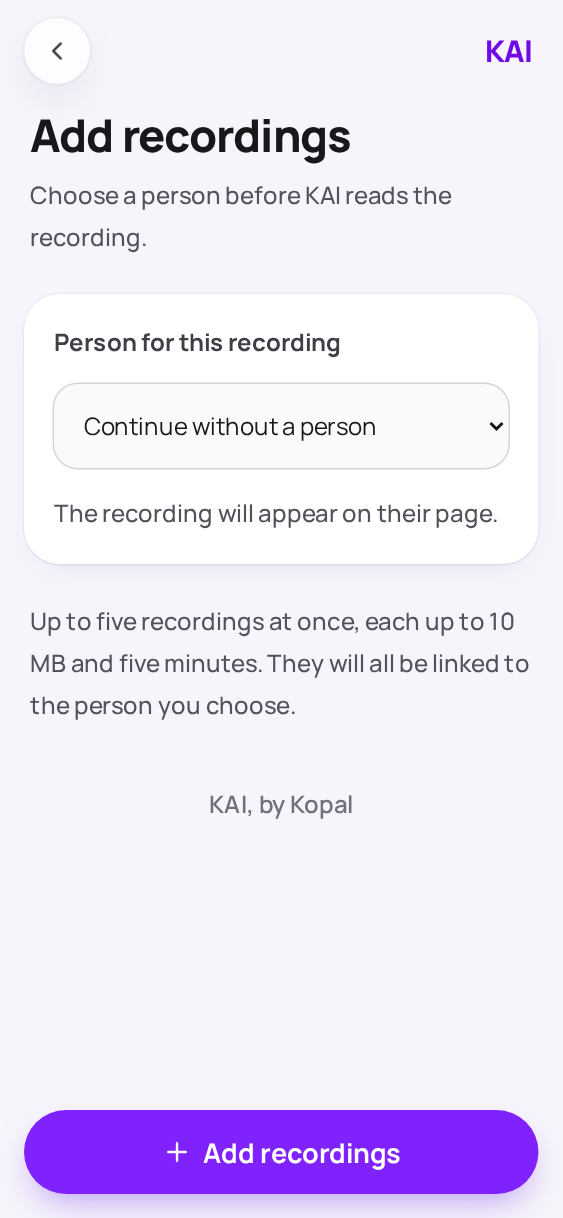
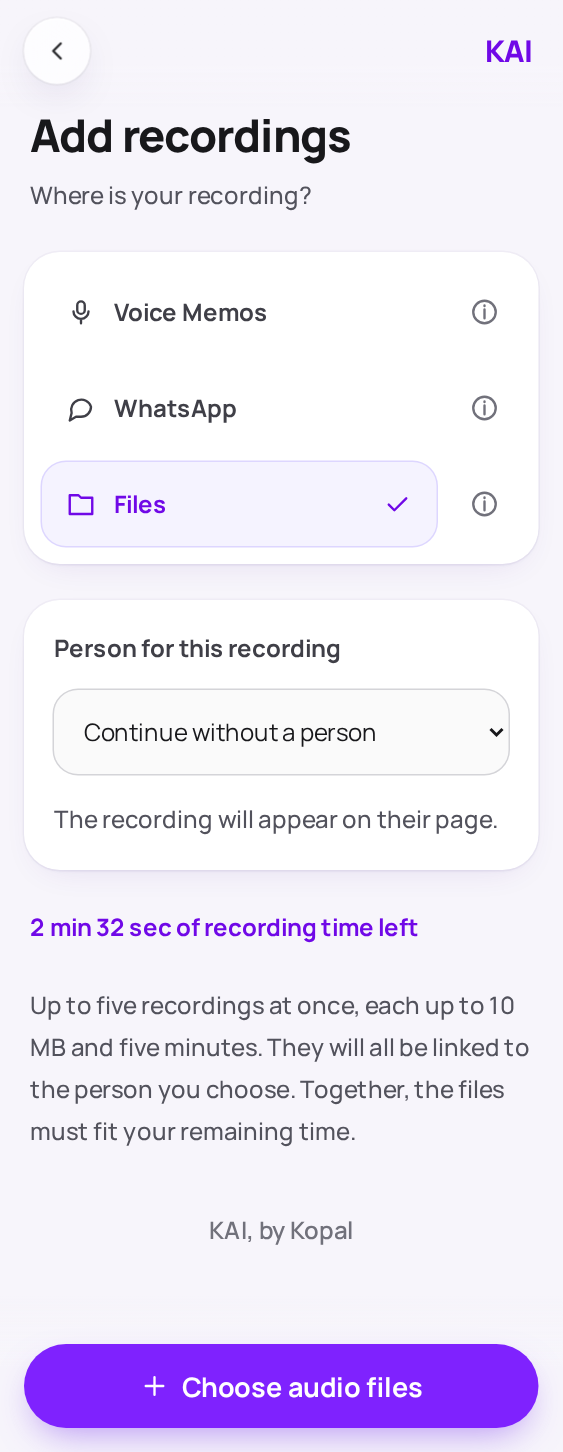
Guide uploads from Voice Memos, WhatsApp and Files (#25)
* Offer a private one-hour recording trial through the waitlist

* Clarify private trial access in the README

* Pause public trial claims pending email verification

* Verify trial email ownership and enforce IP and 100-user caps

* Inspect protected proxy fingerprints without exposing IP addresses

* Use the Sprite client IP header for trial limits

* Make phone shortcut setup three clear steps

* Bound transcription to reserved seconds and verify trial email privacy

* Email verified owners when recordings are ready to review

* Create temporary fixture directory for fresh Sprite checks

* Keep content-free failure diagnostics for readings

* Style recording-ready emails and include their titles

* Add Library and notifications with contextual connection setup

* Guide audio uploads from Voice Memos, WhatsApp and Files

* Replace rejected Voice Memos launch with sharing guidance

diff --git a/src/look/screens/Upload.tsx b/src/look/screens/Upload.tsx
@@ -1,8 +1,22 @@
 import { useState } from 'react'
 import type { LinkedPerson, PersonChoice } from '../types'
-import { Button, Card, Field, Notice, PushedPage, RecordingPicker, WhatIsKai } from '../ui'
+import { Button, Card, Field, FOCUS, Notice, PushedPage, RecordingPicker, WhatIsKai } from '../ui'
+import {Icon,type IconName} from '../icons'
+export type UploadSource='voice-memos'|'whatsapp'|'files'
+const sources:{id:UploadSource;label:string;icon:IconName}[]=[{id:'voice-memos',label:'Voice Memos',icon:'mic'},{id:'whatsapp',label:'WhatsApp',icon:'chat'},{id:'files',label:'Files',icon:'folder'}]
+const guides:Record<UploadSource,string[]>={
+ 'voice-memos':['Open Voice Memos from your Home Screen and choose a recording.','Tap More (…), then Share. If Options appears, choose Rendered audio.','Choose Send to KAI. Your browser opens so you can choose a person before KAI reads.'],
+ whatsapp:['Hold the voice note in WhatsApp, then tap Forward.','Tap Share, then Send to KAI.','Your browser opens so you can choose who sent it before KAI reads.'],
+ files:['Save a recording to Files from the app’s Share menu.','Choose the person below, then choose up to five audio files.','KAI checks their length against your remaining time before starting.']
+}
+const timeLeft=(seconds:number)=>`${Math.floor(seconds/60)} min ${seconds%60} sec`
 
-export function Upload({ people, incoming, readOnly, presetPerson, busy, error, loadError, onFiles, onStart, onRetry }: {
+export function Upload({ people, incoming, readOnly, presetPerson, busy, error, loadError, onFiles, onStart, onRetry, shortcutReady=false, remainingSeconds, xPostUrl, initialSource='files', initialGuide }: {
+  shortcutReady?: boolean
+  remainingSeconds?: number | null
+  xPostUrl?: string | null
+  initialSource?: UploadSource
+  initialGuide?: UploadSource
   people: LinkedPerson[] | null
   incoming?: { id: string; title: string } | null
   readOnly: boolean
@@ -14,17 +28,24 @@ export function Upload({ people, incoming, readOnly, presetPerson, busy, error, 
   onStart: (person: PersonChoice) => void
   onRetry: () => void
 }) {
+  const [source,setSource]=useState<UploadSource>(initialSource),[guide,setGuide]=useState<UploadSource|null>(initialGuide ?? null)
+  const shownGuide=source==='voice-memos' && shortcutReady ? 'voice-memos':guide
+  const exhausted=remainingSeconds===0 && !incoming
   const [selected,setSelected]=useState(presetPerson ?? '')
   const [id]=useState(()=>crypto.randomUUID())
   const [name,setName]=useState(''),[company,setCompany]=useState(''),[role,setRole]=useState('')
   const person:PersonChoice=selected==='new' ? {new_person:{id,name:name.trim(),company:company.trim(),role:role.trim()}} : {person_id:selected || null}
   const valid=selected!=='new' || Boolean(name.trim())
-  const dock=readOnly ? <WhatIsKai/> : loadError ? <Button variant="primary" wide onClick={onRetry}>Try again</Button> : !people ? <Button variant="primary" wide disabled>Opening…</Button> : incoming ? <Button variant="primary" wide disabled={busy || !valid} onClick={()=>onStart(person)}>{busy ? 'Starting…' : 'Let KAI read'}</Button> : <RecordingPicker busy={busy} disabled={!valid} onFiles={files=>onFiles(files,person)}/>
+  const dock=readOnly ? <WhatIsKai/> : loadError ? <Button variant="primary" wide onClick={onRetry}>Try again</Button> : !people ? <Button variant="primary" wide disabled>Opening…</Button> : exhausted ? <Button variant="primary" wide href={xPostUrl || '/home'}>{xPostUrl ? 'Show KAI some love':'Back to Home'}</Button> : incoming ? <Button variant="primary" wide disabled={busy || !valid} onClick={()=>onStart(person)}>{busy ? 'Starting…' : 'Let KAI read'}</Button> : source!=='files' && !shortcutReady ? <Button variant="primary" wide href={'/connect?next='+source}>Set up shortcut</Button> : source==='whatsapp' ? <Button variant="primary" wide href="whatsapp://app">Open WhatsApp</Button> : source==='voice-memos' ? <Button variant="primary" wide onClick={()=>{setSource('files');setGuide(null)}}>Choose saved audio</Button> : <RecordingPicker label="Choose audio files" busy={busy} disabled={!valid} onFiles={files=>onFiles(files,person)}/>
   return <PushedPage back="/home" backLabel="Back to Home" readOnly={readOnly} dock={dock}>
-    <header className="px-1"><h1 className="text-[30px]/9 font-extrabold tracking-tight">Add recordings</h1><p className="mt-2 text-base/7 font-medium text-zinc-600">Choose a person before KAI reads the recording.</p></header>
-    {readOnly ? <Card className="p-5 text-base/7 font-medium text-zinc-600">Open your own copy to add recordings.</Card> : loadError ? <Notice tone="error">{loadError}</Notice> : !people ? <Notice>Opening your upload…</Notice> : <>
+    <header className="px-1"><h1 className="text-[30px]/9 font-extrabold tracking-tight">Add recordings</h1><p className="mt-2 text-base/7 font-medium text-zinc-600">{incoming ? 'Choose a person before KAI reads the recording.':'Where is your recording?'}</p></header>
+    {readOnly ? <Card className="p-5 text-base/7 font-medium text-zinc-600">Open your own copy to add recordings.</Card> : loadError ? <Notice tone="error">{loadError}</Notice> : !people ? <Notice>Opening your upload…</Notice> : exhausted ? <Card className="space-y-3 p-5"><h2 className="text-xl font-extrabold">Your hour is complete</h2><p className="text-base/7 text-zinc-600">You’ve used your recording time. Your people, tasks and past recordings are still here.</p></Card> : <>
+      {!incoming && <Card className="p-3"><div role="group" aria-label="Recording source" className="space-y-2">{sources.map(item=><div key={item.id} className="flex items-center gap-2"><button type="button" aria-pressed={source===item.id} disabled={busy} onClick={()=>{setSource(item.id);setGuide(null)}} className={`${FOCUS} flex min-h-14 min-w-0 flex-1 items-center gap-3 rounded-2xl px-4 text-left text-base font-bold ${source===item.id ? 'bg-violet-50 text-violet-700 ring-1 ring-violet-200':'text-zinc-700 hover:bg-zinc-50'}`}><Icon name={item.icon}/><span className="flex-1">{item.label}</span>{source===item.id && <Icon name="check"/>}</button><button type="button" aria-label={'How to add from '+item.label} aria-expanded={shownGuide===item.id} aria-controls="source-guide" onClick={()=>{setSource(item.id);setGuide(guide===item.id ? null:item.id)}} className={`${FOCUS} flex size-12 shrink-0 items-center justify-center rounded-full text-zinc-500 hover:bg-zinc-100`}><Icon name="info"/></button></div>)}</div></Card>}
+      {shownGuide && !incoming && <Card id="source-guide" className="p-5"><h2 className="text-lg font-extrabold">From {sources.find(s=>s.id===shownGuide)!.label}</h2><ol className="mt-3 list-decimal space-y-3 pl-5 text-base/7 text-zinc-600">{shownGuide!=='files' && !shortcutReady && <li>Set up Send to KAI using the button below.</li>}{guides[shownGuide].map(step=><li key={step}>{step}</li>)}</ol></Card>}
+      {!incoming && source==='voice-memos' && shortcutReady && <Notice>Prefer Files? In Voice Memos, tap Share, then Save to Files. Come back here and choose your saved audio.</Notice>}
+      {!incoming && source!=='files' && !(source==='voice-memos' && shortcutReady) && <Notice>{shortcutReady ? 'Open the app, share your recording to Send to KAI, then choose a person here. If the app does not open, open it from your Home Screen.' : 'First, add Send to KAI to your iPhone’s shortcuts. Then share a recording from the app.'}</Notice>}
       {incoming && <Card className="p-5"><p className="text-base font-bold text-violet-700">Shared from your phone</p><h2 className="mt-1 text-lg font-extrabold">{incoming.title}</h2><p className="mt-2 text-base/7 font-medium text-zinc-600">Your recording is attached and waiting for you.</p></Card>}
-      <Card className="space-y-4 p-5">
+      {(incoming || source==='files') && <Card className="space-y-4 p-5">
         <label htmlFor="upload-person" className="block text-base font-bold text-zinc-700">Person for this recording</label>
         <select id="upload-person" disabled={busy} value={selected} onChange={e=>setSelected(e.target.value)} className="min-h-14 w-full rounded-2xl bg-zinc-50 px-4 py-3 text-base text-zinc-900 ring-1 ring-zinc-300 focus:ring-2 focus:ring-violet-500">
           <option value="">Continue without a person</option>
@@ -37,8 +58,9 @@ export function Upload({ people, incoming, readOnly, presetPerson, busy, error, 
           <Field label="Role (optional)" id="person-role" maxLength={120} disabled={busy} value={role} onChange={e=>setRole(e.target.value)}/>
         </>}
         <p className="text-base/7 font-medium text-zinc-600">The recording will appear on their page.</p>
-      </Card>
-      {!incoming && <p className="px-1 text-base/7 font-medium text-zinc-600">Up to five recordings at once, each up to 10 MB and five minutes. They will all be linked to the person you choose.</p>}
+      </Card>}
+      {!incoming && remainingSeconds!=null && <p className="px-1 text-base/7 font-bold text-violet-700">{timeLeft(remainingSeconds)} of recording time left</p>}
+      {!incoming && <p className="px-1 text-base/7 font-medium text-zinc-600">Up to five recordings at once, each up to 10 MB and five minutes. {source==='files' ? 'They will all be linked to the person you choose.':'Choose a person after sharing.'} {remainingSeconds!=null && 'Together, the files must fit your remaining time.'}</p>}
       {error && <Notice tone="error">{error}</Notice>}
     </>}
   </PushedPage>

diff --git a/tests/phone/upload-sources.spec.ts b/tests/phone/upload-sources.spec.ts
@@ -1,0 +1,48 @@
+import {test,expect} from './fixture';
+import {assertPhone} from './usability';
+import {testTone} from '../../src/server/gateway';
+
+test('three audio sources show guidance and return from shortcut setup to the chosen app',async({page,kai})=>{
+ await page.goto('/');await page.evaluate(s=>{history.replaceState(null,'','/#judge='+s);location.reload()},kai.secret);
+ await page.getByRole('link',{name:'Try it yourself',exact:true}).click();await page.goto('/upload/new');
+ for(const name of ['Voice Memos','WhatsApp','Files']){
+  await expect(page.getByRole('button',{name,exact:true})).toBeVisible();
+  await page.getByRole('button',{name:'How to add from '+name}).click();
+  await expect(page.getByRole('heading',{name:'From '+name,exact:true})).toBeVisible();await assertPhone(page);
+ }
+ await page.getByRole('button',{name:'WhatsApp',exact:true}).click();
+ await page.route('**/api/connect',async route=>{const r=await route.fetch();const data=await r.json();await route.fulfill({json:{...data,uploadPath:'/in/layout-example',mcpPath:'/mcp/layout-example'}})});
+ await page.getByRole('link',{name:'Set up shortcut',exact:true}).click();await expect(page).toHaveURL(/connect\?next=whatsapp$/);
+ await page.getByRole('button',{name:'I’ve added the shortcut',exact:true}).click();
+ await expect(page).toHaveURL(/upload\/new\?source=whatsapp$/);
+ await expect(page.getByRole('link',{name:'Open WhatsApp',exact:true})).toHaveAttribute('href','whatsapp://app');await assertPhone(page);
+ await page.getByRole('button',{name:'Voice Memos',exact:true}).click();
+ await expect(page.getByText('Open Voice Memos from your Home Screen and choose a recording.',{exact:true})).toBeVisible();
+ await expect(page.locator('a[href^="voicememos:"]')).toHaveCount(0);await assertPhone(page);
+ await page.getByRole('button',{name:'Choose saved audio',exact:true}).click();
+ await expect(page.getByLabel('Person for this recording')).toBeVisible();
+ await page.getByRole('button',{name:'Files',exact:true}).click();
+ const picker=page.getByLabel('Add recordings: choose up to five audio files');await expect(picker).toHaveAttribute('accept','.m4a,.opus,.ogg,.mp3,.wav');
+ await picker.setInputFiles({name:'invented.txt',mimeType:'text/plain',buffer:Buffer.from('Invented words.')});
+ await expect(page.getByText('Choose an audio file: M4A, OPUS, OGG, MP3 or WAV.',{exact:true})).toBeVisible();await expect(page).toHaveURL(/upload\/new/);
+ await assertPhone(page);
+});
+
+test('remaining time refuses an oversized duration, hides a missing post, and lets reserved shared audio finish',async({page,kai})=>{
+ await page.goto('/');await page.evaluate(s=>{history.replaceState(null,'','/#judge='+s);location.reload()},kai.secret);
+ await page.getByRole('link',{name:'Try it yourself',exact:true}).click();
+ const cookie=(await page.context().cookies()).find(c=>c.name==='kai_session')!;const id=cookie.value.split('.')[0];
+ kai.db.prepare('UPDATE workspaces SET trial_verified=1,trial_seconds=1 WHERE id=?').run(id);
+ await page.goto('/upload/new');await expect(page.getByText('0 min 1 sec of recording time left',{exact:true})).toBeVisible();
+ await page.getByLabel('Add recordings: choose up to five audio files').setInputFiles({name:'invented.wav',mimeType:'audio/wav',buffer:testTone()});
+ await expect(page.getByText(/remaining recording time/)).toBeVisible();
+ expect((kai.db.prepare('SELECT trial_seconds FROM workspaces WHERE id=?').get(id) as {trial_seconds:number}).trial_seconds).toBe(1);
+ kai.db.prepare('UPDATE workspaces SET trial_seconds=2 WHERE id=?').run(id);
+ const connection=await (await page.request.get('/api/connect')).json();
+ const r=await page.request.post(connection.uploadPath,{multipart:{recordings:{name:'invented.wav',mimeType:'audio/wav',buffer:testTone()},date:new Date().toISOString()}});expect(r.status()).toBe(202);const {ids}=await r.json();
+ // The last two seconds are already reserved. The attached recording must still be startable.
+ await page.goto('/upload/'+ids[0]);await expect(page.getByRole('button',{name:'Let KAI read',exact:true})).toBeEnabled();await assertPhone(page);
+ await page.getByRole('button',{name:'Let KAI read',exact:true}).click();await expect(page.getByRole('button',{name:/^Accept all/})).toBeEnabled();
+ await page.goto('/upload/new');await expect(page.getByRole('heading',{name:'Your hour is complete'})).toBeVisible();await expect(page.getByRole('link',{name:'Show KAI some love'})).toHaveCount(0);await assertPhone(page);
+ await page.goto('/home');await expect(page.getByRole('link',{name:'Show KAI some love'})).toHaveCount(0);
+});

diff --git a/design/gallery.tsx b/design/gallery.tsx
@@ -114,7 +114,16 @@ const STATES: Record<string, { title: string; screen: () => ReactNode }> = {
   'home/trial-used': {title:'Home · trial used',screen:()=> <Home {...homeProps} readOnly={false} home={{...data.home,trialSeconds:0,trialVerified:true}}/>},
   'opening/page': { title: 'Page · opening', screen: () => <Opening page="People" onRetry={nothing}/> },
   'opening/failed': { title: 'Page · could not open', screen: () => <Opening page="People" failed onRetry={nothing}/> },
-  upload: { title: 'Upload · choose a person', screen: () => <Upload people={data.people} readOnly={false} onFiles={nothing} onStart={nothing} onRetry={nothing}/> },
+  upload: { title: 'Upload · choose a source', screen: () => <Upload people={data.people} readOnly={false} remainingSeconds={152} onFiles={nothing} onStart={nothing} onRetry={nothing}/> },
+  "upload/voice-memos": {title:"Upload · voice-memos",screen:()=> <Upload people={data.people} readOnly={false} initialSource="voice-memos" onFiles={nothing} onStart={nothing} onRetry={nothing}/>},
+  "upload/whatsapp": {title:"Upload · whatsapp",screen:()=> <Upload people={data.people} readOnly={false} initialSource="whatsapp" onFiles={nothing} onStart={nothing} onRetry={nothing}/>},
+  "upload/voice-memos-ready": {title:"Upload · voice-memos-ready",screen:()=> <Upload people={data.people} readOnly={false} initialSource="voice-memos" shortcutReady onFiles={nothing} onStart={nothing} onRetry={nothing}/>},
+  "upload/whatsapp-ready": {title:"Upload · whatsapp-ready",screen:()=> <Upload people={data.people} readOnly={false} initialSource="whatsapp" shortcutReady onFiles={nothing} onStart={nothing} onRetry={nothing}/>},
+  "upload/voice-memos-guide": {title:"Upload · voice-memos-guide",screen:()=> <Upload people={data.people} readOnly={false} initialSource="voice-memos" initialGuide="voice-memos" onFiles={nothing} onStart={nothing} onRetry={nothing}/>},
+  "upload/whatsapp-guide": {title:"Upload · whatsapp-guide",screen:()=> <Upload people={data.people} readOnly={false} initialSource="whatsapp" initialGuide="whatsapp" shortcutReady onFiles={nothing} onStart={nothing} onRetry={nothing}/>},
+  "upload/files-guide": {title:"Upload · files-guide",screen:()=> <Upload people={data.people} readOnly={false} initialGuide="files" onFiles={nothing} onStart={nothing} onRetry={nothing}/>},
+  "upload/quota-used": {title:"Upload · quota-used",screen:()=> <Upload people={data.people} readOnly={false} remainingSeconds={0} onFiles={nothing} onStart={nothing} onRetry={nothing}/>},
+  "upload/shared-quota-used": {title:"Upload · shared-quota-used",screen:()=> <Upload people={data.people} readOnly={false} remainingSeconds={0} incoming={{id:"invented",title:"New recording"}} onFiles={nothing} onStart={nothing} onRetry={nothing}/>},
   'upload/new-person': { title: 'Upload · add a person', screen: () => <Upload people={data.people} readOnly={false} presetPerson="new" onFiles={nothing} onStart={nothing} onRetry={nothing}/> },
   'upload/shared': { title: 'Upload · a WhatsApp voice note', screen: () => <Upload people={data.people} readOnly={false} incoming={{id:'shared',title:'New recording'}} onFiles={nothing} onStart={nothing} onRetry={nothing}/> },
   'upload/loading': { title: 'Upload · opening', screen: () => <Upload people={null} readOnly={false} onFiles={nothing} onStart={nothing} onRetry={nothing}/> },

diff --git a/src/server/app.ts b/src/server/app.ts
@@ -13,7 +13,7 @@ import { cookieName, createJudge, equalSecret, workspaceFor } from './access';
 import { listTodos,finishTodo } from './todos';
 import { mountSharing } from './sharing';
 import { mountMcp } from './mcp';
-import { mountWaitlist } from './waitlist';
+import { mountWaitlist,xPost } from './waitlist';
 import { linkRecordingPerson } from './recording-person';
 export type AppOptions = TrialOptions & {sendReady?:SendReady;trialsPaused?:boolean;judgeSecret?:string; downloadSecret?:string; xPostUrl?:string; now?:()=>number; videoUrl?:string;videoFile?:string; secureCookies?:boolean;reader?:Reader;transcriber?:Transcriber;audioDirectory?:string};
 export function createApp(db: KaiDatabase, options: AppOptions = {}) {
@@ -50,7 +50,7 @@ export function createApp(db: KaiDatabase, options: AppOptions = {}) {
   });
   app.use((_req,_res,next)=>{void work();next();});
   app.get('/healthz', (_req,res) => res.json({status:'ok',commit:process.env.KAI_COMMIT ?? 'local',reading:!options.reader || options.reader===fakeReader ? 'fake':'connector'}));
-  app.get('/api/access',(_req,res) => res.json({kind:res.locals.workspace === 'public' ? 'public' : 'judge',videoUrl:options.videoUrl || null,trialSeconds:(db.prepare('SELECT trial_seconds FROM workspaces WHERE id=?').get(res.locals.workspace) as {trial_seconds:number|null}).trial_seconds}));
+  app.get('/api/access',(_req,res) => res.json({kind:res.locals.workspace === 'public' ? 'public' : 'judge',videoUrl:options.videoUrl || null,xPostUrl:xPost(options.xPostUrl),trialSeconds:(db.prepare('SELECT trial_seconds FROM workspaces WHERE id=?').get(res.locals.workspace) as {trial_seconds:number|null}).trial_seconds}));
   app.get('/api/connect',(_req,res)=> {
     const row=db.prepare("SELECT upload_token,mcp_token,shortcut_ready FROM workspaces WHERE id=? AND kind='judge'").get(res.locals.workspace) as {upload_token:string;mcp_token:string;shortcut_ready:number}|undefined;
     if(!row){res.status(403).json({error:'Open your own copy to connect your phone.'});return;}
@@ -99,6 +99,7 @@ export function createApp(db: KaiDatabase, options: AppOptions = {}) {
   app.get('/api/home',(_req,res) => res.json({
     shortcutReady:Boolean((db.prepare('SELECT shortcut_ready FROM workspaces WHERE id=?').get(res.locals.workspace) as {shortcut_ready:number}).shortcut_ready),
     trialVerified:Boolean((db.prepare('SELECT trial_verified FROM workspaces WHERE id=?').get(res.locals.workspace) as {trial_verified:number}).trial_verified),
+    xPostUrl:xPost(options.xPostUrl),
     trialSeconds:(db.prepare('SELECT trial_seconds FROM workspaces WHERE id=?').get(res.locals.workspace) as {trial_seconds:number|null}).trial_seconds,
     todos:db.prepare("SELECT t.id,t.text,t.due_on,p.name AS person_name FROM todos t LEFT JOIN people p ON p.id=t.person_id AND p.workspace_id=t.workspace_id WHERE t.workspace_id = ? AND t.status = 'open' AND t.owner_person_id IS NULL ORDER BY t.due_on IS NULL,t.due_on").all(res.locals.workspace),
     conversations:db.prepare('SELECT id,title,summary,happened_on FROM conversations WHERE workspace_id = ? ORDER BY happened_on DESC').all(res.locals.workspace),

diff --git a/src/UploadPage.tsx b/src/UploadPage.tsx
@@ -1,13 +1,18 @@
 import { useEffect,useState } from 'react';
-import { Upload } from './look/screens/Upload';
+import { Upload,type UploadSource } from './look/screens/Upload';
 import type { LinkedPerson,PersonChoice } from './look/types';
 import { useUpload } from './Upload';
 export function UploadPage({readOnly}:{readOnly:boolean}) {
+  const [setup,setSetup]=useState(false),[remaining,setRemaining]=useState<number|null>(null),[post,setPost]=useState<string|null>(null);
+  const source=new URLSearchParams(location.search).get('source');
+  const initialSource:UploadSource=source==='voice-memos' || source==='whatsapp' ? source:'files';
   const [people,setPeople]=useState<LinkedPerson[]|null>(null),[incoming,setIncoming]=useState<{id:string;title:string}|null>(null);
   const [loadError,setLoadError]=useState(''),[error,setError]=useState(''),[starting,setStarting]=useState(false);
   const upload=useUpload(),path=location.pathname.split('/')[2];
   useEffect(()=>{if(readOnly)return;let alive=true;
     async function load(){try {
+      const [a,c]=await Promise.all([fetch('/api/access'),fetch('/api/connect')]);if(!a.ok || !c.ok)throw new Error();
+      const access=await a.json(),connection=await c.json();if(alive){setRemaining(access.trialSeconds);setPost(access.xPostUrl);setSetup(connection.shortcutReady);}
       const p=await fetch('/api/people');if(!p.ok)throw new Error();const people=await p.json();
       if(path && path!=='new') {
         const r=await fetch('/api/readings/'+encodeURIComponent(path));if(!r.ok)throw new Error();const recording=await r.json();
@@ -26,5 +31,5 @@ export function UploadPage({readOnly}:{readOnly:boolean}) {
     try {const r=await fetch('/api/uploads/'+encodeURIComponent(incoming.id)+'/start',{method:'POST',headers:{'Content-Type':'application/json'},body:JSON.stringify(person)});const data=await r.json();if(!r.ok)throw new Error(data.error);location.assign('/recordings/'+encodeURIComponent(incoming.id));}
     catch(e){setError(e instanceof Error ? e.message:'KAI could not start. Try again.');setStarting(false);}
   }
-  return <Upload people={people} incoming={incoming} readOnly={readOnly} presetPerson={new URLSearchParams(location.search).get('person') ?? undefined} busy={starting || upload.adding} error={error || upload.addError} loadError={loadError} onFiles={upload.onFiles} onStart={person=>void start(person)} onRetry={()=>location.reload()}/>;
+  return <Upload shortcutReady={setup} remainingSeconds={remaining} xPostUrl={post} initialSource={initialSource} people={people} incoming={incoming} readOnly={readOnly} presetPerson={new URLSearchParams(location.search).get('person') ?? undefined} busy={starting || upload.adding} error={error || upload.addError} loadError={loadError} onFiles={upload.onFiles} onStart={person=>void start(person)} onRetry={()=>location.reload()}/>;
 }

diff --git a/src/look/screens/Home.tsx b/src/look/screens/Home.tsx
@@ -177,6 +177,7 @@ export function Home({
       {home && !readOnly && !home.shortcutReady && <Card className="space-y-3 p-5"><h2 className="text-xl font-extrabold">Send voice notes straight to KAI</h2><p className="text-base/7 text-zinc-600">Set up the iPhone shortcut once, then share from Voice Memos or WhatsApp.</p><Button variant="outline" href="/connect">Set up your phone</Button></Card>}
       {home?.trialSeconds!=null && !home.trialVerified && <Card className="p-5"><p className="mb-3 text-base/7">Verify your email to continue your trial. Your notebook and remaining time are kept.</p><Button href="/try" variant="outline">Verify email</Button></Card>}
       {home?.trialSeconds!=null && home.trialVerified && <p className="px-1 text-base/7 text-zinc-600">KAI will email you when a recording is ready, with suggestion counts and a link to review.</p>}
+      {home?.trialSeconds===0 && home.xPostUrl && <Button href={home.xPostUrl} variant="outline">Show KAI some love</Button>}
       {home?.trialSeconds!=null && <p className="px-1 text-base/7 font-medium text-zinc-600">{home.trialSeconds ? `${Math.floor(home.trialSeconds/60)} min ${home.trialSeconds%60} sec of recording time left` : 'You’ve used your hour of recordings. Your notebook and assistant connection are still here.'}</p>}
       {home && !readOnly && home.conversations.length===0 && <Card className="p-5"><h2 className="text-xl font-extrabold">Your notebook starts here</h2><p className="mt-2 text-base/7 text-zinc-600">Add a recording. KAI will find the people, notes and to-dos for you to review.</p></Card>}
       {addError && <Notice tone="error">{addError}</Notice>}

diff --git a/src/look/ui.tsx b/src/look/ui.tsx
@@ -522,12 +522,12 @@ export function AddRecordings({ personId, hideNotifications }: { onFiles?: (file
   </div>
 }
 
-export function RecordingPicker({ onFiles, busy, disabled }: { onFiles: (files: File[]) => void; busy?: boolean; disabled?: boolean }) {
+export function RecordingPicker({ onFiles, busy, disabled, label='Add recordings' }: { label?:string; onFiles: (files: File[]) => void; busy?: boolean; disabled?: boolean }) {
   return (
     <div className="relative">
       <button type="button" tabIndex={-1} aria-hidden="true" disabled={busy || disabled} className={clsx(PILL, VARIANT.primary, 'h-14 w-full text-lg')}>
         <Icon name="plus" />
-        {busy ? 'Adding…' : 'Add recordings'}
+        {busy ? 'Adding…' : label}
       </button>
       <input
         type="file"

diff --git a/src/server/waitlist.ts b/src/server/waitlist.ts
@@ -18,7 +18,7 @@ function visitors(db:KaiDatabase,now:number):Visitors {
   return Object.fromEntries(Object.entries(all).filter(([,v])=>v.seen>now-hour).map(([id,v])=>[id,{seen:v.seen,attempts:v.attempts.filter(at=>at>now-hour)}]));
 }
 function saveVisitors(db:KaiDatabase,all:Visitors) {db.prepare("UPDATE workspaces SET waitlist_visitors=? WHERE id='public'").run(JSON.stringify(all));}
-function xPost(value?:string) {
+export function xPost(value?:string) {
   if(!value)return null;
   try {const url=new URL(value);return url.protocol==='https:' && ['x.com','www.x.com'].includes(url.hostname) && /^\/[A-Za-z0-9_]+\/status\/\d+\/?$/.test(url.pathname) ? url.origin+url.pathname:null;}catch{return null;}
 }

diff --git a/src/Upload.tsx b/src/Upload.tsx
@@ -6,6 +6,7 @@ export function useUpload() {
   async function send(files:File[],person?:PersonChoice) {
     if(!files.length || sending.current)return;
     if(files.length>5 || files.some(f=>f.size>10000000)){setError('Choose one to five recordings, each up to 10 MB.');return;}
+    if(files.some(f=>!f.size || !/\.(m4a|opus|ogg|mp3|wav)$/i.test(f.name))){setError('Choose an audio file: M4A, OPUS, OGG, MP3 or WAV.');return;}
     sending.current=true;setBusy(true);setError('');const body=new FormData();
     if(person)body.append('person',JSON.stringify(person));
     files.forEach(f=>body.append('recordings',f));body.append('dates',JSON.stringify(files.map(f=>f.lastModified)));

diff --git a/src/look/types.ts b/src/look/types.ts
@@ -93,6 +93,7 @@ export type QueueItem = { id: string; title: string; status: RecordingStatus; er
 export type HomeData = {
   shortcutReady?: boolean
   trialVerified?: boolean
+  xPostUrl?: string | null
   trialSeconds?: number | null
   hasRecordings?: boolean
   peopleCount: number

diff --git a/design/README.md b/design/README.md
@@ -45,7 +45,7 @@ and callbacks. The old global `src/style.css` is removed. Stock Catalyst is
 unchanged, including the dialog used for the editing sheet.
 
 The gallery includes loading and failure states needed by the live app.
-`check.mjs` checks all 77 states. The phone suite checks all public and judge
+`check.mjs` checks all 86 states. The phone suite checks all public and judge
 routes, choosing a person before an upload, shared recordings waiting for that choice, Home checkboxes, decisions, editing, errors and quote
 highlighting. It checks the filled violet's resting, hover and active colours,
 and waits for finite layout transitions to settle through retried assertions.
@@ -68,7 +68,7 @@ The dock at the foot of the screen holds it, except where noted.
 | Home, People, To-dos | "Add recordings": opens the upload page to choose a person, then files | "Try it yourself", to trial signup |
 | Recording | "Accept all · n"; "Try again" when it failed; "See people" when all is decided. Hidden while a suggestion is edited: "Save and accept" is then the one | "Back to Home" |
 | Person | "Review suggestions" when some wait; otherwise "Add recordings" | "Back to People" |
-| Upload | "Choose recordings"; "Let KAI read" for a shared recording | "Try it yourself" |
+| Upload | "Choose audio files", "Set up shortcut" or "Open WhatsApp" or "Choose saved audio"; "Let KAI read" for a shared recording | "Try it yourself" |
 | Connect | "Copy your address", in the first card | "Try it yourself" |
 
 ### What the look shows that the server does not send yet
@@ -127,3 +127,13 @@ it is marked done or a shared recording arrives. The notification bell sits
 left of Add recordings and opens ready/failed recording updates. Opening an
 update marks only its current status read; Library keeps the full history.
 These views are newly written in KAI’s style. No other repository was opened.
+
+Add recordings offers Voice Memos, WhatsApp and Files, with sharing guides.
+App choices return from shortcut setup to the selected source. Files keeps
+the person choice before reading. Remaining trial time is shown; when it
+is used, the notebook remains readable. The launch-post link is hidden
+until Copal supplies it. Shared recordings with already reserved time can
+still finish after the allowance reaches zero.
+
+Voice Memos shows sharing instructions after setup, with a Files fallback.
+Its rejected direct-launch address is not used. WhatsApp keeps its app link.
